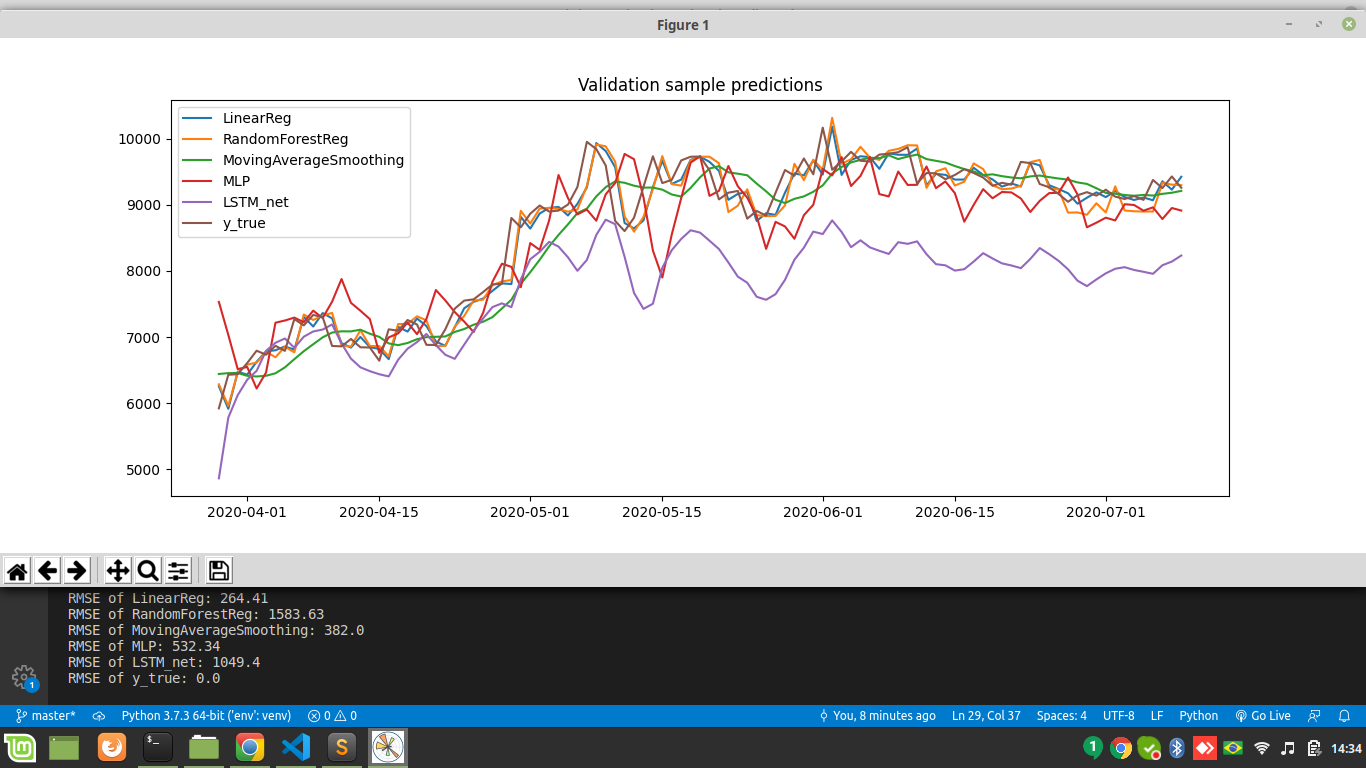
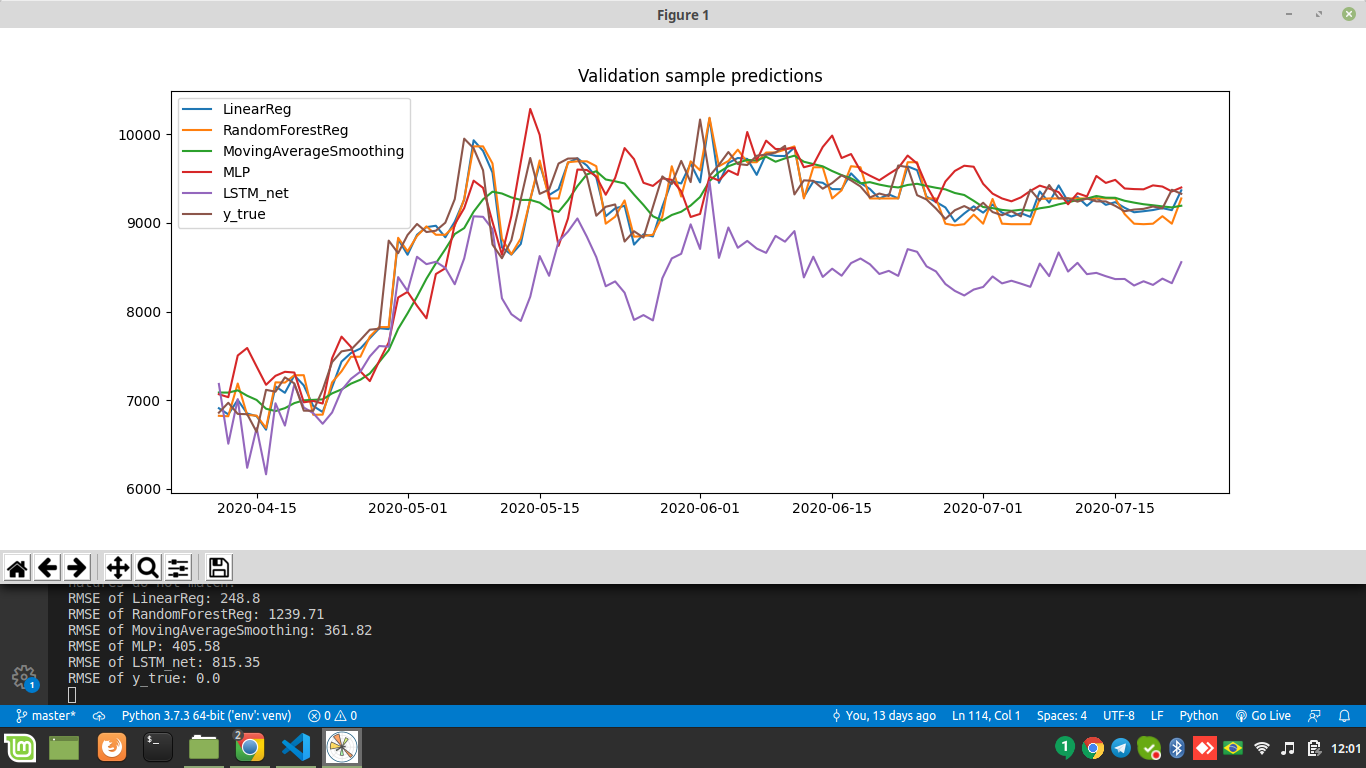
LSTM improve

diff --git a/scripts/algo_btc.py b/scripts/algo_btc.py
@@ -153,7 +153,7 @@ class Modelling:
 
     def LSTM_net(self):
         print("==========Starting LSTM Network...==========")
-        NEURONS, BATCH_SIZE, NB_EPOCH = 4, 1, 20
+        NEURONS, BATCH_SIZE, NB_EPOCH = 6, 1, 50
         X_train = self.X_train.reshape(self.X_train.shape[0], 1, self.X_train.shape[1])
         model = Sequential()
         model.add(LSTM(NEURONS, batch_input_shape=(BATCH_SIZE, X_train.shape[1], 

diff --git a/scripts/init.py b/scripts/init.py
@@ -113,4 +113,4 @@ def main(action):
         print("Action not found")
 
 if __name__ == "__main__":
-    main('get_signals')
+    main('validation')
